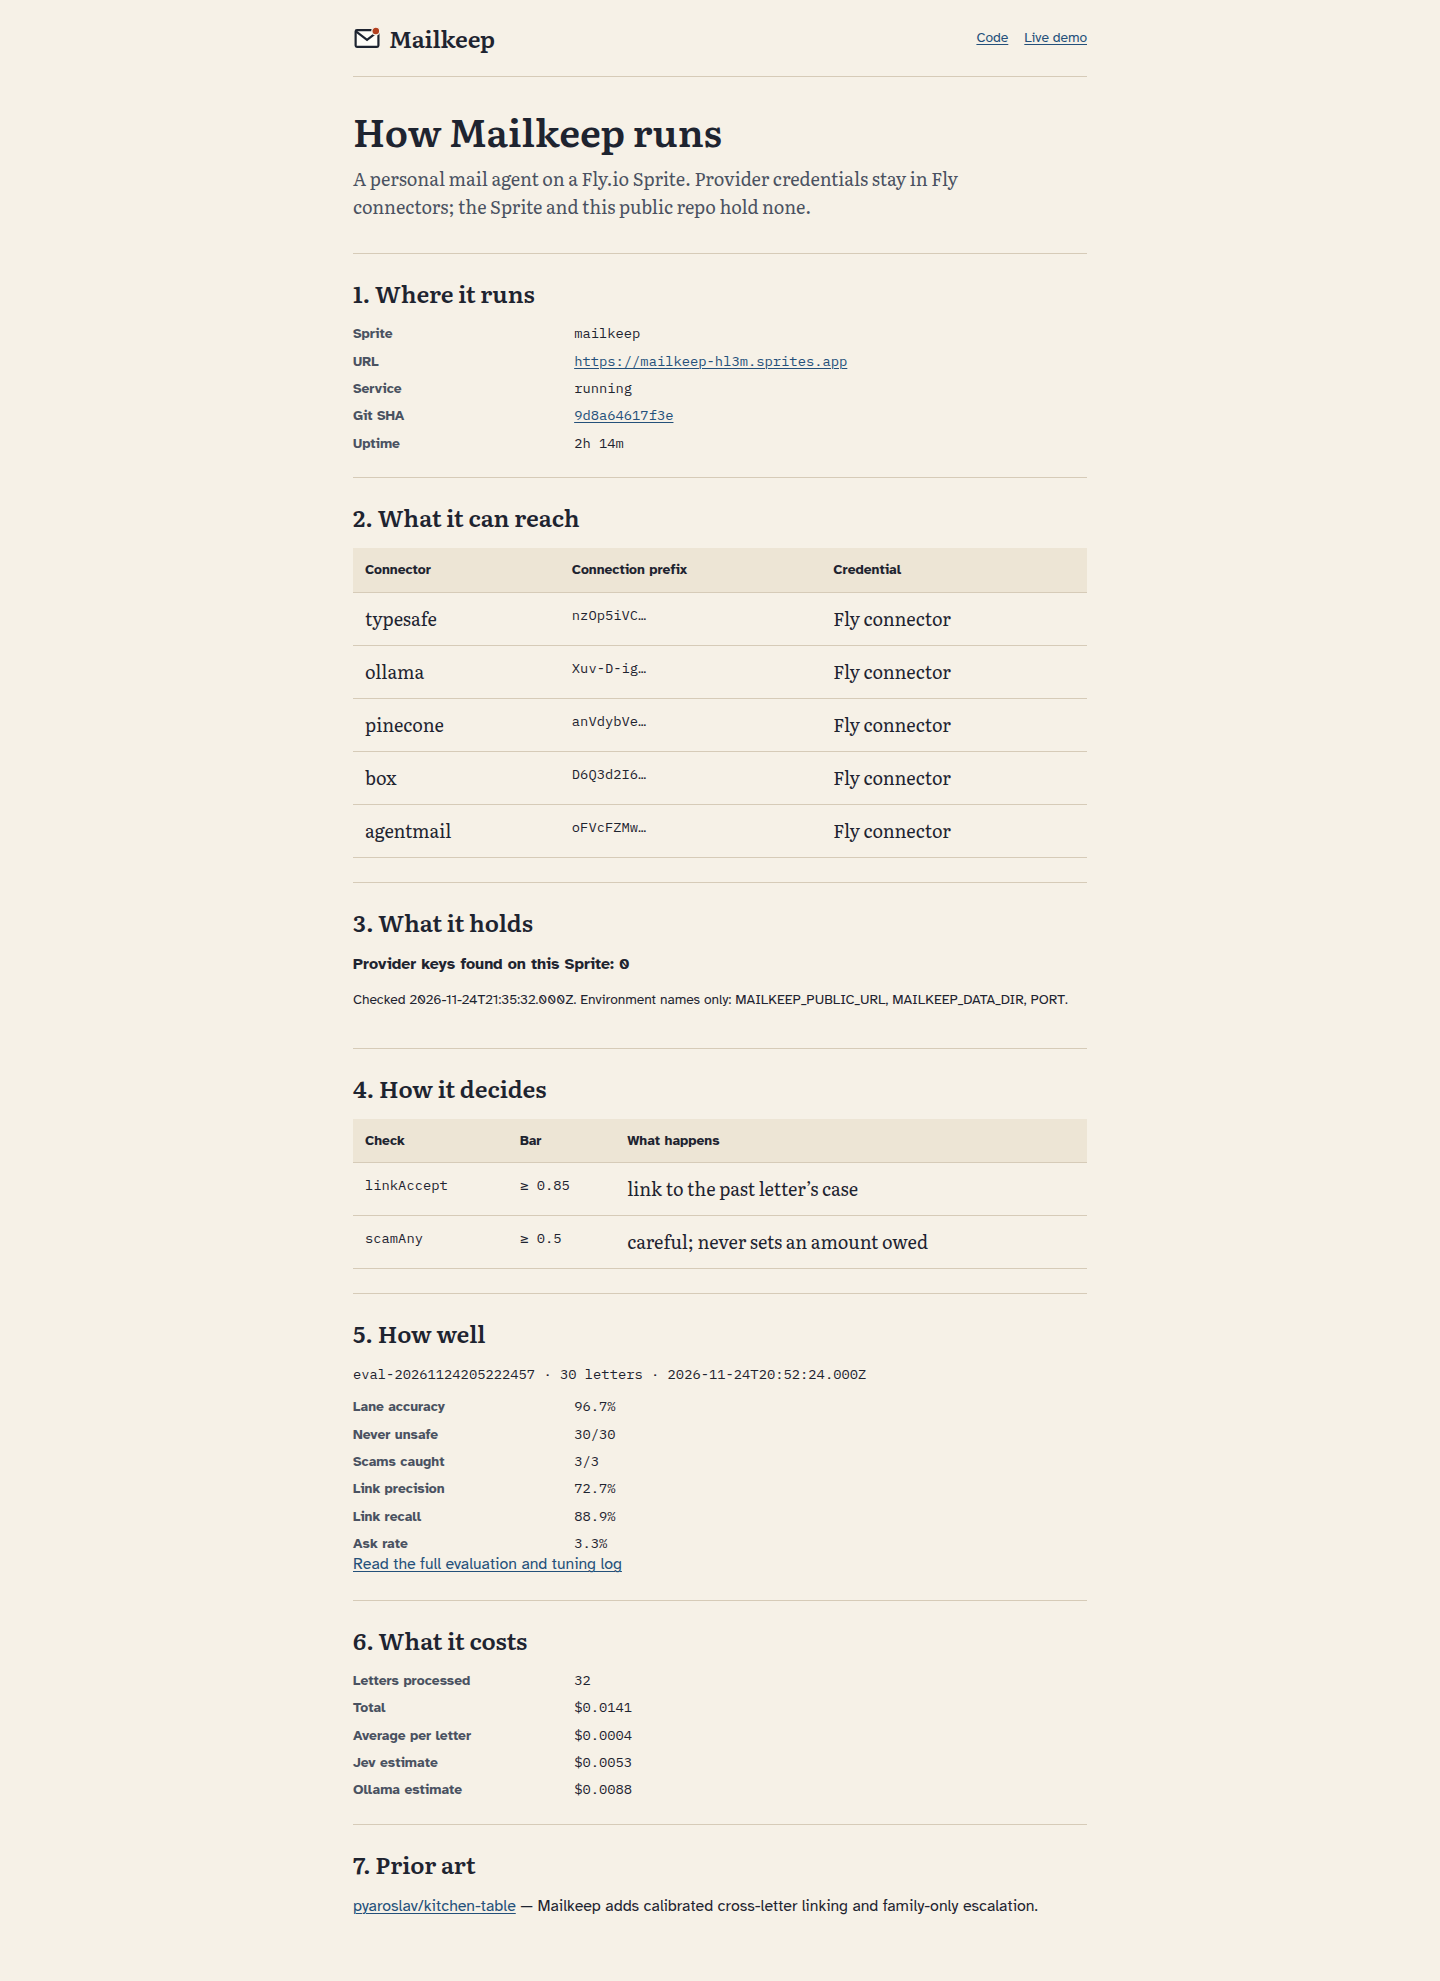
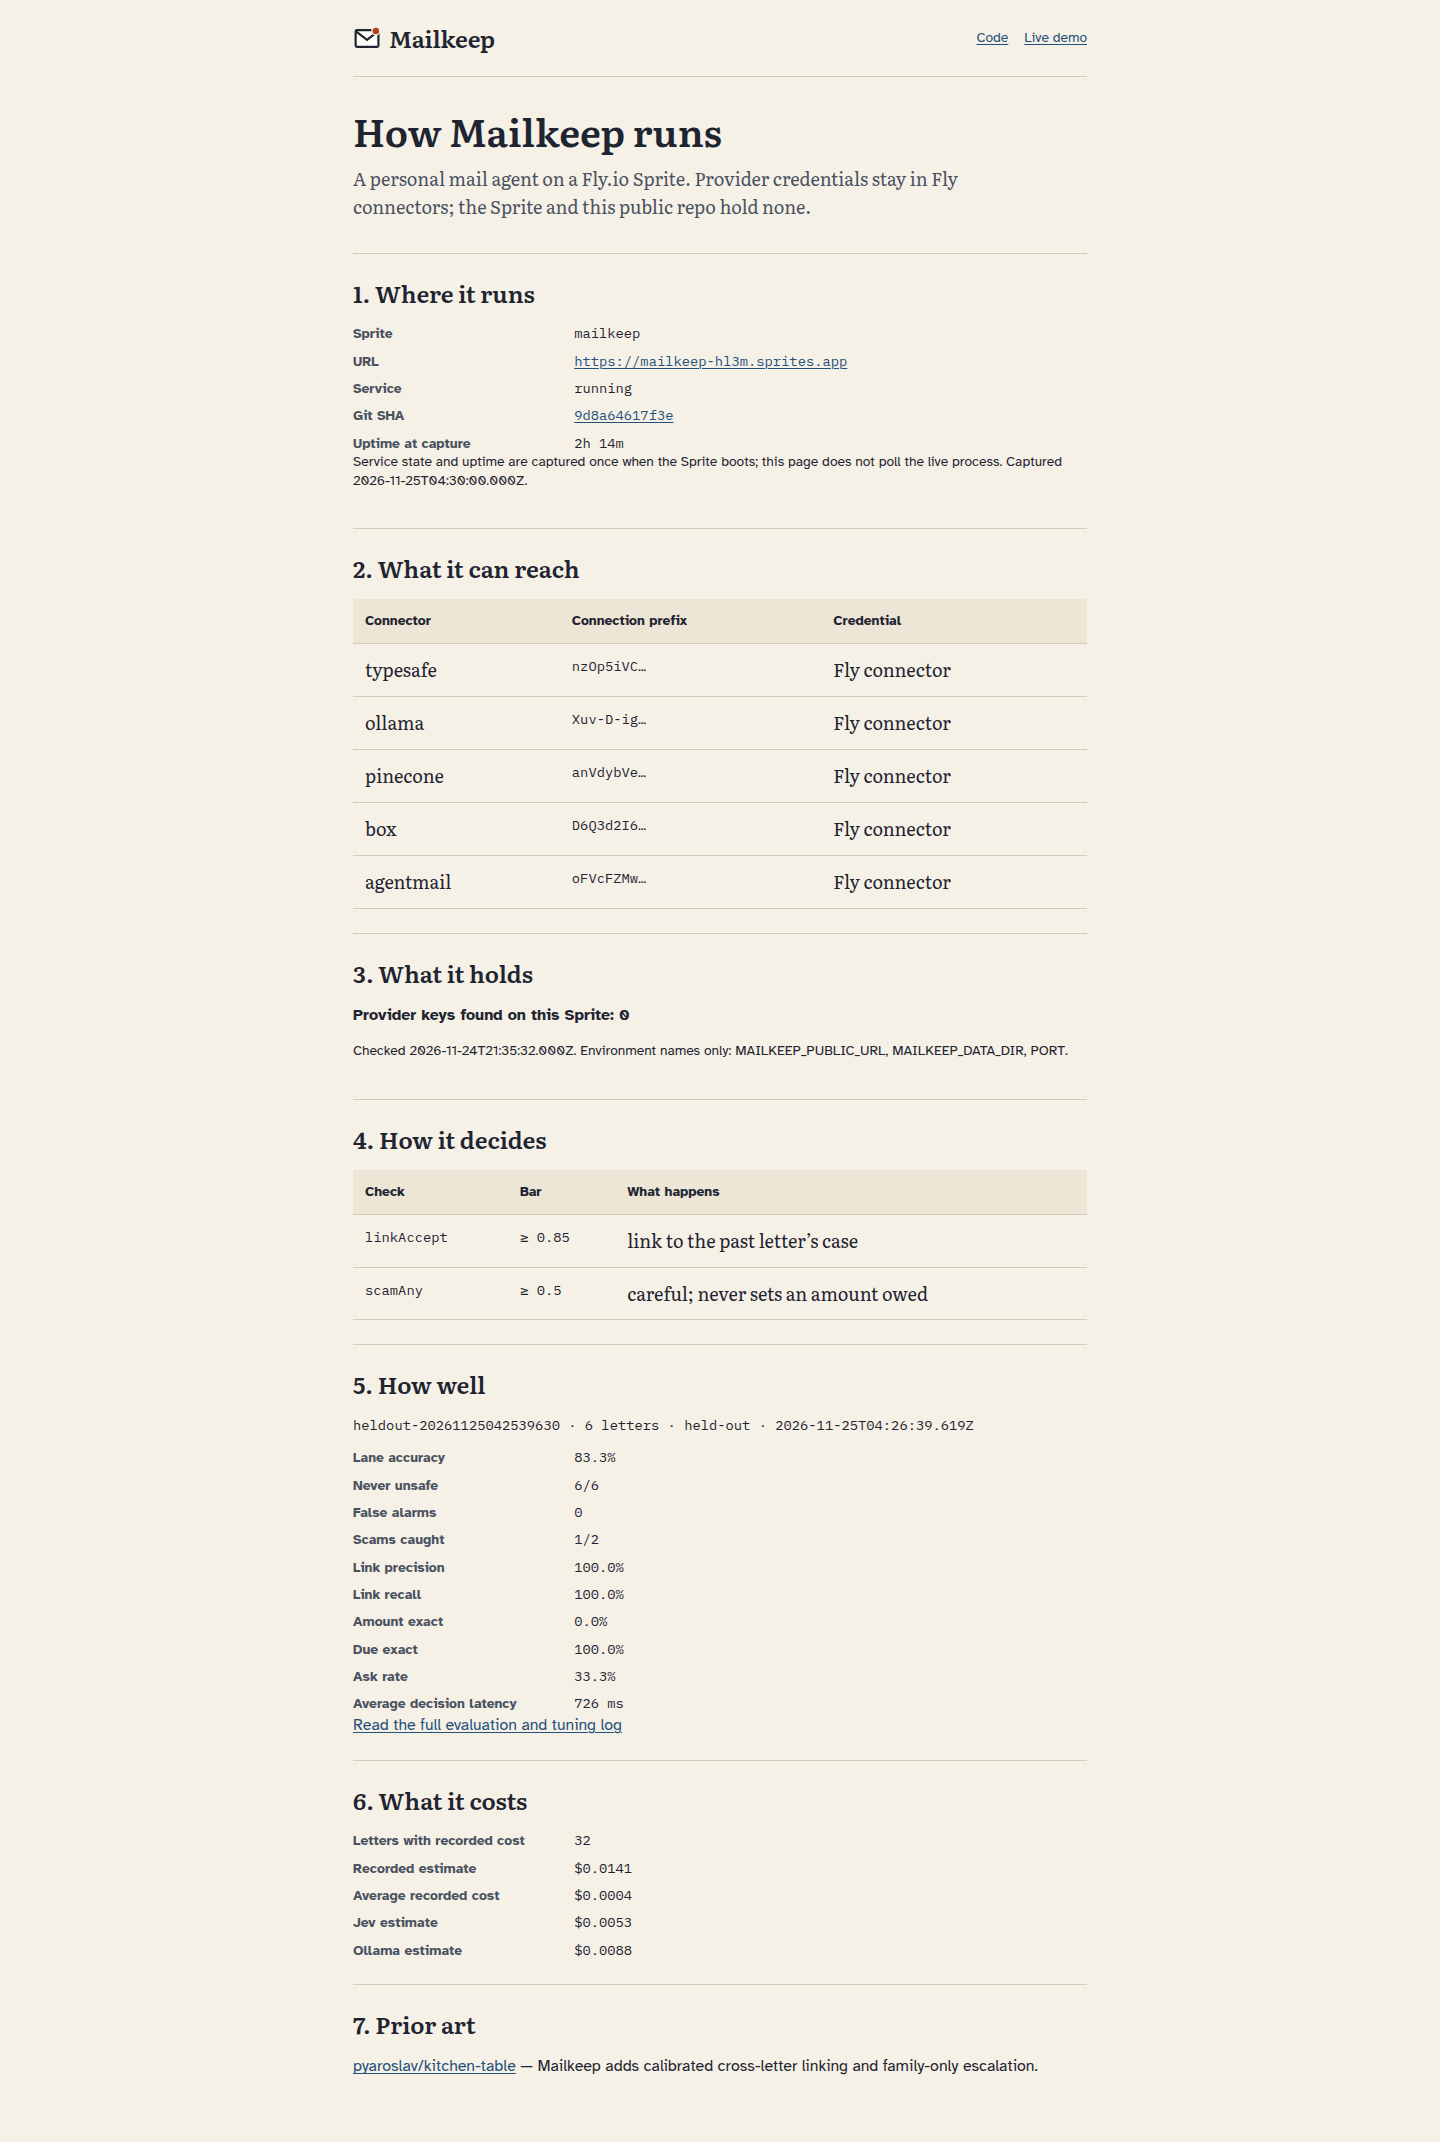
T61: Make proof evidence accurate and complete

diff --git a/apps/web/src/routes/Proof.tsx b/apps/web/src/routes/Proof.tsx
@@ -73,9 +73,13 @@ export function Proof() {
               {data.where.gitSha.slice(0, 12)}
             </a>
           </dd>
-          <dt>Uptime</dt>
+          <dt>Uptime at capture</dt>
           <dd>{data.where.uptime}</dd>
         </dl>
+        <p className="meta">
+          Service state and uptime are captured once when the Sprite boots; this page does not poll
+          the live process. Captured {data.capturedAt}.
+        </p>
       </section>
 
       <section className="proof__section" aria-labelledby="connectors">
@@ -147,21 +151,38 @@ export function Proof() {
         {data.eval ? (
           <>
             <p className="mono">
-              {data.eval.runId} · {data.eval.letters} letters · {data.eval.generatedAt}
+              {data.eval.runId} · {data.eval.letters} letters ·{' '}
+              {data.eval.heldout ? 'held-out' : 'non-held-out'} · {data.eval.generatedAt}
             </p>
             <dl className="proof__grid">
               <dt>Lane accuracy</dt>
               <dd>{pct(data.eval.laneAccuracy)}</dd>
               <dt>Never unsafe</dt>
               <dd>{data.eval.neverSafe}</dd>
+              <dt>False alarms</dt>
+              <dd>{data.eval.falseAlarms}</dd>
               <dt>Scams caught</dt>
               <dd>{data.eval.scamsCaught}</dd>
               <dt>Link precision</dt>
               <dd>{pct(data.eval.linkPrecision)}</dd>
               <dt>Link recall</dt>
               <dd>{pct(data.eval.linkRecall)}</dd>
+              <dt>Amount exact</dt>
+              <dd>
+                {data.eval.amountAccuracy === null ? 'Not reported' : pct(data.eval.amountAccuracy)}
+              </dd>
+              <dt>Due exact</dt>
+              <dd>
+                {data.eval.dueAccuracy === null ? 'Not reported' : pct(data.eval.dueAccuracy)}
+              </dd>
               <dt>Ask rate</dt>
               <dd>{pct(data.eval.askRate)}</dd>
+              <dt>Average decision latency</dt>
+              <dd>
+                {data.eval.averageLatencyMs === null
+                  ? 'Not reported'
+                  : `${data.eval.averageLatencyMs} ms`}
+              </dd>
             </dl>
             <a href="https://github.com/PhiBao/mailkeep/blob/main/EVAL.md">
               Read the full evaluation and tuning log
@@ -175,11 +196,11 @@ export function Proof() {
       <section className="proof__section" aria-labelledby="costs">
         <h2 id="costs">6. What it costs</h2>
         <dl className="proof__grid">
-          <dt>Letters processed</dt>
+          <dt>Letters with recorded cost</dt>
           <dd>{data.costs.lettersProcessed}</dd>
-          <dt>Total</dt>
+          <dt>Recorded estimate</dt>
           <dd>{usd(data.costs.totalMicrousd)}</dd>
-          <dt>Average per letter</dt>
+          <dt>Average recorded cost</dt>
           <dd>{usd(data.costs.averageMicrousd)}</dd>
           <dt>Jev estimate</dt>
           <dd>{usd(data.costs.jevMicrousd)}</dd>

diff --git a/apps/agent/src/sprite/proof.ts b/apps/agent/src/sprite/proof.ts
@@ -56,15 +56,20 @@ const evalFileSchema = z
   .object({
     runId: z.string().min(1),
     generatedAt: z.string().datetime({ offset: true }),
+    heldout: z.boolean().optional().default(false),
     metrics: z.object({
       letters: z.number().int().nonnegative(),
       laneAccuracy: z.number().min(0).max(1),
       unsafe: z.number().int().nonnegative(),
+      falseAlarms: z.number().int().nonnegative().optional().default(0),
       scamsCaught: z.number().int().nonnegative(),
       scamsTotal: z.number().int().nonnegative(),
       linkPrecision: z.number().min(0).max(1),
       linkRecall: z.number().min(0).max(1),
+      amountAccuracy: z.number().min(0).max(1).optional().nullable().default(null),
+      dueAccuracy: z.number().min(0).max(1).optional().nullable().default(null),
       askRate: z.number().min(0).max(1),
+      averageLatencyMs: z.number().int().nonnegative().optional().nullable().default(null),
     }),
   })
   .refine((value) => value.metrics.unsafe <= value.metrics.letters, {
@@ -297,13 +302,18 @@ async function collectEval(reader: EvalFilesReader): Promise<ProofDTO['eval']> {
         summary: {
           runId: parsed.runId,
           generatedAt: parsed.generatedAt,
+          heldout: parsed.heldout,
           letters: parsed.metrics.letters,
           laneAccuracy: parsed.metrics.laneAccuracy,
           neverSafe: `${parsed.metrics.letters - parsed.metrics.unsafe}/${parsed.metrics.letters}`,
+          falseAlarms: parsed.metrics.falseAlarms,
           scamsCaught: `${parsed.metrics.scamsCaught}/${parsed.metrics.scamsTotal}`,
           linkPrecision: parsed.metrics.linkPrecision,
           linkRecall: parsed.metrics.linkRecall,
+          amountAccuracy: parsed.metrics.amountAccuracy,
+          dueAccuracy: parsed.metrics.dueAccuracy,
           askRate: parsed.metrics.askRate,
+          averageLatencyMs: parsed.metrics.averageLatencyMs,
         },
       };
     } catch {}
@@ -365,6 +375,7 @@ export async function collectProof(deps: ProofDeps): Promise<ProofDTO> {
   ]);
 
   return proofSchema.parse({
+    capturedAt: now.toISOString(),
     where,
     connectors,
     keyscan: {

diff --git a/apps/web/e2e/proof.spec.ts b/apps/web/e2e/proof.spec.ts
@@ -1,6 +1,7 @@
 import { expect, test } from '@playwright/test';
 
 const proof = {
+  capturedAt: '2026-11-25T04:30:00.000Z',
   where: {
     spriteName: 'mailkeep',
     url: 'https://mailkeep-hl3m.sprites.app',
@@ -25,15 +26,20 @@ const proof = {
     { key: 'scamAny', bar: 0.5, effect: 'careful; never sets an amount owed' },
   ],
   eval: {
-    runId: 'eval-20261124205222457',
-    generatedAt: '2026-11-24T20:52:24.000Z',
-    letters: 30,
-    laneAccuracy: 0.9666666667,
-    neverSafe: '30/30',
-    scamsCaught: '3/3',
-    linkPrecision: 0.7272727273,
-    linkRecall: 0.8888888889,
-    askRate: 0.0333333333,
+    runId: 'heldout-20261125042539630',
+    generatedAt: '2026-11-25T04:26:39.619Z',
+    heldout: true,
+    letters: 6,
+    laneAccuracy: 0.8333333333333334,
+    neverSafe: '6/6',
+    falseAlarms: 0,
+    scamsCaught: '1/2',
+    linkPrecision: 1,
+    linkRecall: 1,
+    amountAccuracy: 0,
+    dueAccuracy: 1,
+    askRate: 0.3333333333333333,
+    averageLatencyMs: 726,
   },
   costs: {
     lettersProcessed: 32,
@@ -67,7 +73,9 @@ for (const width of [390, 1440]) {
       await expect(page.getByRole('heading', { name })).toBeVisible();
     }
     await expect(page.getByText('Provider keys found on this Sprite: 0')).toBeVisible();
-    await expect(page.getByText('96.7%')).toBeVisible();
+    await expect(page.getByText('83.3%')).toBeVisible();
+    await expect(page.getByText('held-out', { exact: false })).toBeVisible();
+    await expect(page.getByText('1/2')).toBeVisible();
     await expect(page.getByText('nzOp5iVC…')).toBeVisible();
     const text = await page.locator('body').textContent();
     expect(text).not.toContain('nzOp5iVCbA5OBl_eRQvEwQ');

diff --git a/packages/shared/src/dto.ts b/packages/shared/src/dto.ts
@@ -214,6 +214,7 @@ export const proofThresholdSchema = z.object({
 });
 
 export const proofSchema = z.object({
+  capturedAt: isoDateTime,
   where: z.object({
     spriteName: z.string(),
     url: z.string(),
@@ -238,13 +239,18 @@ export const proofSchema = z.object({
     .object({
       runId: z.string(),
       generatedAt: isoDateTime,
+      heldout: z.boolean().default(false),
       letters: z.number().int().nonnegative(),
       laneAccuracy: z.number().min(0).max(1),
       neverSafe: z.string(),
+      falseAlarms: z.number().int().nonnegative().default(0),
       scamsCaught: z.string(),
       linkPrecision: z.number().min(0).max(1),
       linkRecall: z.number().min(0).max(1),
+      amountAccuracy: z.number().min(0).max(1).nullable().default(null),
+      dueAccuracy: z.number().min(0).max(1).nullable().default(null),
       askRate: z.number().min(0).max(1),
+      averageLatencyMs: z.number().int().nonnegative().nullable().default(null),
     })
     .nullable(),
   costs: z.object({

diff --git a/apps/agent/test/proof.test.ts b/apps/agent/test/proof.test.ts
@@ -223,6 +223,7 @@ describe('proof collection', () => {
       evalFiles: async () => evalFiles,
     });
 
+    expect(proof.capturedAt).toBe(NOW.toISOString());
     expect(proof.where).toEqual({
       spriteName: 'sprite-proof',
       url: 'https://mailkeep.example',
@@ -262,13 +263,18 @@ describe('proof collection', () => {
     expect(proof.eval).toEqual({
       runId: 'heldout-20261124210000000',
       generatedAt: '2026-11-24T21:00:00.000Z',
+      heldout: true,
       letters: 8,
       laneAccuracy: 0.875,
       neverSafe: '7/8',
+      falseAlarms: 0,
       scamsCaught: '2/3',
       linkPrecision: 0.9,
       linkRecall: 0.8,
+      amountAccuracy: null,
+      dueAccuracy: null,
       askRate: 0.125,
+      averageLatencyMs: null,
     });
     expect(proof.costs).toEqual({
       lettersProcessed: 2,
